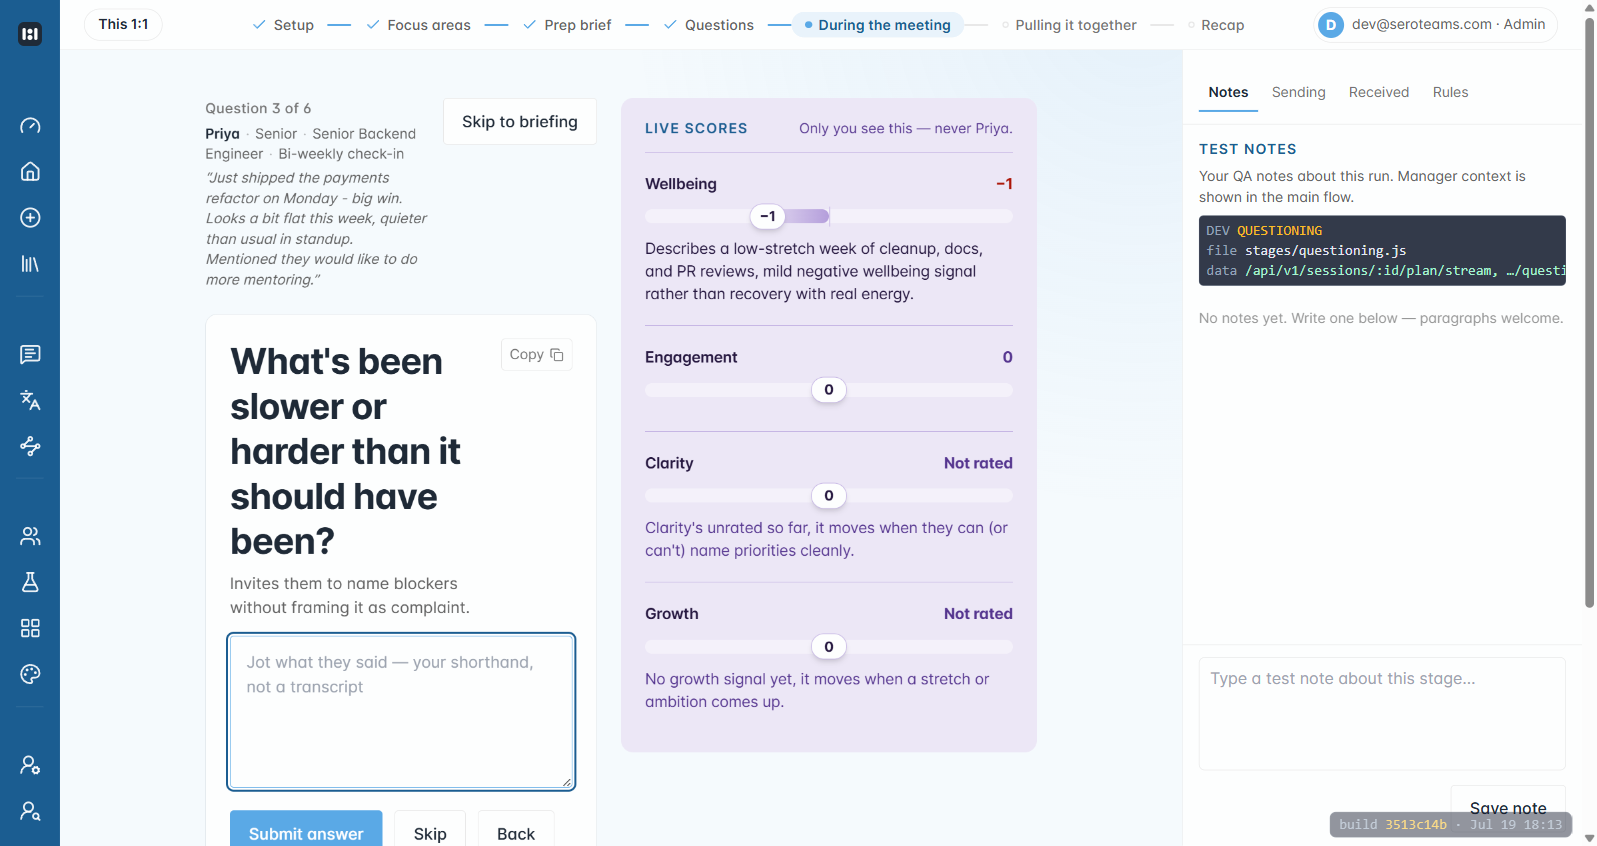
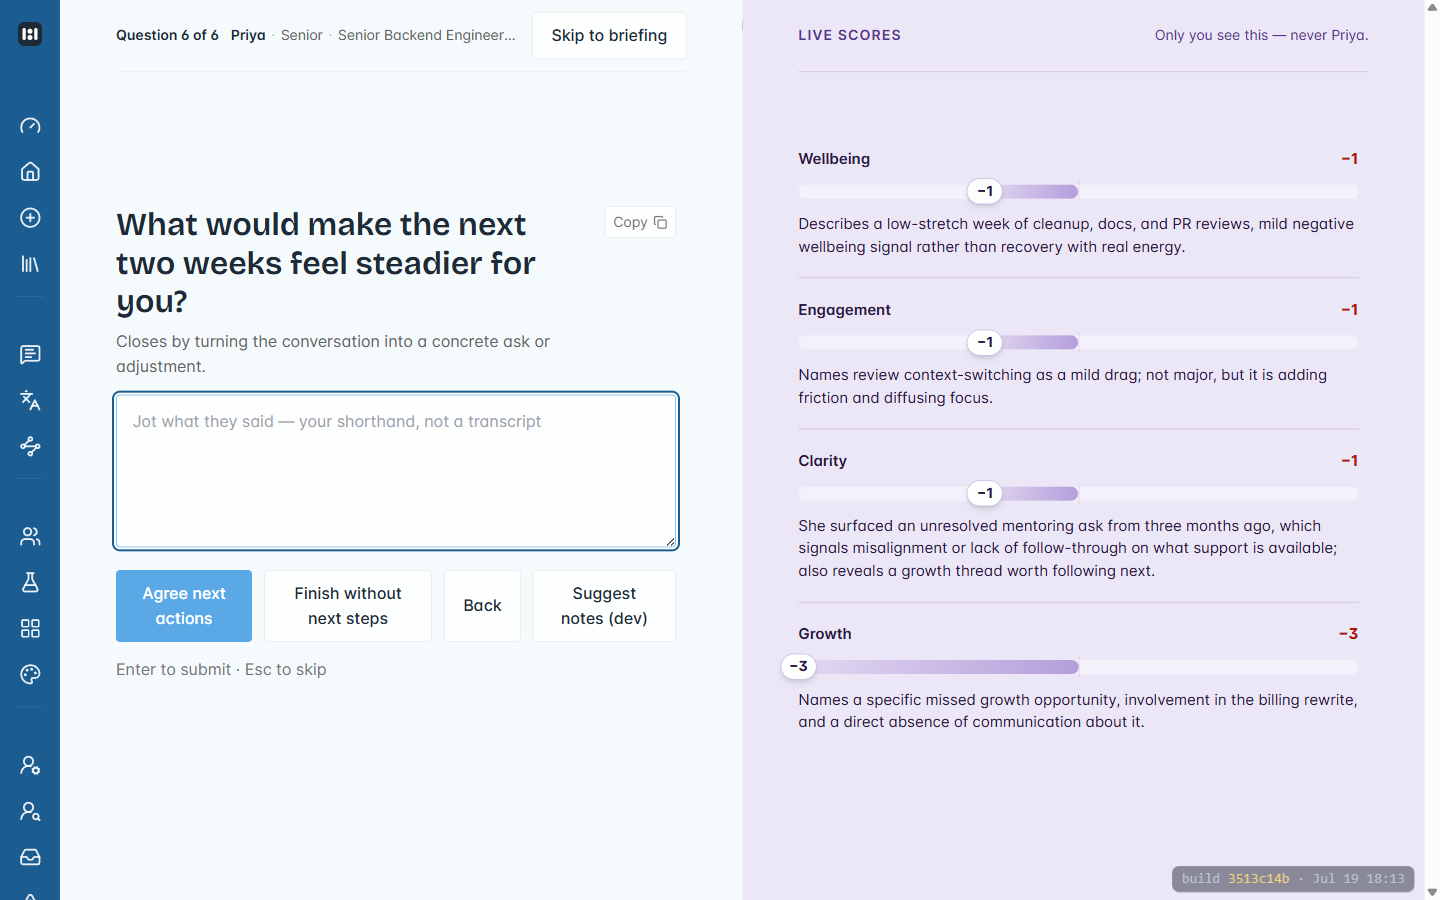
fix(coach-panel): the TRUE full-screen 50/50 from the POC — Carl's 'not the design' catch
Overlay portals to <body> (shell ancestors trap position:fixed), drops the old
stage class that clamped its width, bare Typeform question column, POC datum
lines + type scale; header facts ellipsize instead of clipping the skip button.
158/158 tests, typecheck clean; re-walked on the cassette + new screenshot.

diff --git a/admin/src/stages/questioning.js b/admin/src/stages/questioning.js
@@ -21,7 +21,48 @@ let unmountFn = null;
 const IS_ADMIN_APP = import.meta.env.BASE_URL === "/admin/";
 
 export async function mount(root, { store, setState }) {
-  const leftInner = `
+  // Admin: the POC's TRUE full-screen 50/50 (runner-v2, Carl-approved) — fixed overlay,
+  // three datum lines (72px header row + hairline, shared content line, footer line),
+  // 560px columns, paper left / lavender right. Customer app: today's single column.
+  // The overlay is appended to <body>: the stage host lives inside animated/contained
+  // shell ancestors, which trap position:fixed and shrink the split (Carl's 2026-07-19
+  // "this is not the design" catch). The nav rail stays; topbar + dev rail sit under it.
+  const adminScreenHtml = `<div class="cp-screen">
+        <div class="cp-half cp-half--q">
+          <header class="cp-head">
+            <div class="cp-head__facts">
+              <span class="turn-label cp-head__turn"></span>
+              <span class="question-session-ctx ctx-segments" aria-label="Session context"></span>
+            </div>
+            <div class="cp-head__actions">
+              <button class="btn btn--ghost js-save-exit" type="button">Skip to briefing</button>
+            </div>
+          </header>
+          <div class="cp-col">
+            <div class="question-host"></div>
+            <div class="thinking-host"></div>
+            <div class="footer-host text-sm text-ink-mute"></div>
+          </div>
+          <div class="cp-foot"></div>
+        </div>
+        <aside class="cp-half cp-half--coach" aria-label="Live scores — only you see this">
+          <header class="cp-head">
+            <span class="cp-eyebrow">Live scores</span>
+            <span class="cp-privacy">Only you see this — never ${escape(store.ctx?.name || "them")}.</span>
+          </header>
+          <div class="cp-col"><div class="coach-host"></div></div>
+          <div class="cp-foot"></div>
+        </aside>
+      </div>`;
+  let screenEl = null;
+  if (IS_ADMIN_APP) {
+    root.innerHTML = "";
+    screenEl = document.createElement("div");
+    screenEl.innerHTML = adminScreenHtml;
+    screenEl = screenEl.firstElementChild;
+    document.body.appendChild(screenEl);
+  } else {
+    root.innerHTML = `<div class="stage-questioning l-stack l-stack--6">
       <header class="page-header">
         <div class="page-header__row">
           <div class="questioning-head min-w-0 space-y-1">
@@ -34,35 +75,31 @@ export async function mount(root, { store, setState }) {
       </header>
       <div class="question-host"></div>
       <div class="thinking-host min-h-[72px]"></div>
-      ${IS_ADMIN_APP ? "" : `
       <div class="axes-wrap space-y-2" aria-label="Live scores — updated each answer, not the final briefing">
         <div class="eyebrow" title="Live scores — updated each answer, not the final briefing">Live scores</div>
         <div class="card axes-host"></div>
-      </div>`}
+      </div>
       <div class="footer-host text-sm text-ink-mute"></div>
-  `;
-  root.innerHTML = IS_ADMIN_APP
-    ? `<div class="stage-questioning coach-split">
-        <div class="coach-split__left l-stack l-stack--6">${leftInner}</div>
-        <aside class="coach-split__right"><div class="coach-host"></div></aside>
-      </div>`
-    : `<div class="stage-questioning l-stack l-stack--6">${leftInner}</div>`;
-  const turnLabel = root.querySelector(".turn-label");
-  const sessionCtxEl = root.querySelector(".question-session-ctx");
-  const qHost = root.querySelector(".question-host");
+    </div>`;
+  }
+  const ui = screenEl || root;
+  const turnLabel = ui.querySelector(".turn-label");
+  const sessionCtxEl = ui.querySelector(".question-session-ctx");
+  const qHost = ui.querySelector(".question-host");
 
   renderCtxSegments(sessionCtxEl, store.ctx || {}, { compact: true });
   // Echo what the manager told Sero at setup (chips summary + their own words) so
-  // the full context stays visible the whole way through the interview.
-  const sessionNotesEl = root.querySelector(".question-session-notes");
+  // the full context stays visible the whole way through the interview. The POC split
+  // (admin) has no notes echo — its header keeps the single 72px facts row.
+  const sessionNotesEl = ui.querySelector(".question-session-notes");
   const ctxNotes = String(store.ctx?.notes || "").replace(/\s*\n+\s*/g, " ").trim();
-  if (ctxNotes) {
+  if (ctxNotes && sessionNotesEl) {
     sessionNotesEl.textContent = `“${ctxNotes}”`;
     sessionNotesEl.hidden = false;
   }
-  const thinkingHost = root.querySelector(".thinking-host");
-  const axesHost = root.querySelector(IS_ADMIN_APP ? ".coach-host" : ".axes-host");
-  const footerHost = root.querySelector(".footer-host");
+  const thinkingHost = ui.querySelector(".thinking-host");
+  const axesHost = ui.querySelector(IS_ADMIN_APP ? ".coach-host" : ".axes-host");
+  const footerHost = ui.querySelector(".footer-host");
 
   // Same duck-type surface either way: renderInitial / update (+ setNote on the coach panel).
   const axes = IS_ADMIN_APP
@@ -94,7 +131,7 @@ export async function mount(root, { store, setState }) {
   // Wrap-up exit (wrap-up-exit Phase 1): from Q4 the escape becomes a warm door —
   // one closing question, then the briefing — instead of the straight-to-briefing
   // trapdoor. showNextQuestion() sets wrapMode + relabels per question.
-  const saveExitBtn = root.querySelector(".js-save-exit");
+  const saveExitBtn = ui.querySelector(".js-save-exit");
   let wrapMode = false;
   saveExitBtn.addEventListener("click", async () => {
     if (wrapMode) {
@@ -176,7 +213,7 @@ export async function mount(root, { store, setState }) {
     saveExitBtn.textContent = wrapMode ? "Wrap up — get my briefing" : "Skip to briefing";
 
     const card = document.createElement("div");
-    card.className = "card questioning-card space-y-4 reveal";
+    card.className = IS_ADMIN_APP ? "cp-q space-y-4 reveal" : "card questioning-card space-y-4 reveal";
     card.innerHTML = `
       ${isFollowUp
         ? `<div class="question-drill-hint text-ink-dim">↳ Following up on what you just said.</div>`
@@ -394,7 +431,7 @@ export async function mount(root, { store, setState }) {
     turnLabel.textContent = "Before we wrap";
 
     const card = document.createElement("div");
-    card.className = "card questioning-card space-y-4 reveal";
+    card.className = IS_ADMIN_APP ? "cp-q space-y-4 reveal" : "card questioning-card space-y-4 reveal";
     card.innerHTML = `
       <div class="question-card-head__text space-y-2">
         <h1 class="question-stem leading-snug">Earlier they wanted to cover ${escape(agenda.summary)}. Did you get to it?</h1>
@@ -537,7 +574,7 @@ export async function mount(root, { store, setState }) {
     turnLabel.textContent = "Before question 1";
 
     const card = document.createElement("div");
-    card.className = "card questioning-card space-y-4 reveal";
+    card.className = IS_ADMIN_APP ? "cp-q space-y-4 reveal" : "card questioning-card space-y-4 reveal";
     const head = document.createElement("h1");
     head.className = "question-stem leading-snug";
     head.textContent = "How did last time's agreements go?";
@@ -572,7 +609,11 @@ export async function mount(root, { store, setState }) {
 
   bootQuestioning();
 
-  unmountFn = teardown;
+  unmountFn = () => {
+    teardown();
+    // The admin split lives on <body> (portal) — remove it with the stage.
+    if (screenEl) { screenEl.remove(); screenEl = null; }
+  };
 }
 
 export function unmount() {

diff --git a/admin/src/styles/coach-panel.css b/admin/src/styles/coach-panel.css
@@ -1,35 +1,68 @@
-/* Coach panel (coach-panel Phase 1) — the lavender right half of the questioning
-   split, plus the split layout itself. Meters are the runner-v2 POC's design 5
-   ("Gradient meter", Carl's pick 2026-07-19). Tokens only; 14px floor. */
+/* Coach panel (coach-panel Phase 1) — the POC's TRUE full-screen 50/50 (runner-v2,
+   Carl's approved mock) carried onto the real questioning screen, admin app only.
+   Three datum lines: a 72px header row closed by a hairline, a shared content line,
+   a footer line. Paper left, lavender right, 560px columns, gradient meters
+   (POC design 5). Tokens only; 14px floor. */
 
-/* The 50/50 split (admin app only — the customer app keeps the single column). */
-.coach-split { display: grid; grid-template-columns: 1fr 1fr; gap: 0; align-items: stretch; }
-.coach-split__left { min-width: 0; padding-right: var(--sero-space-6); }
-.coach-split__right { min-width: 0; }
-@media (max-width: 1100px) {
-  .coach-split { grid-template-columns: 1fr; }
-  .coach-split__left { padding-right: 0; }
+/* Appended to <body> (portal): the app shell's animated ancestors would trap
+   position:fixed. Leaves the nav rail visible (POC look); covers the session
+   topbar + dev rail; stays under modals (--sero-z-modal-backdrop is 40). */
+.cp-screen { position: fixed; top: 0; right: 0; bottom: 0;
+  left: var(--app-nav-w, 60px); z-index: 35; display: grid;
+  grid-template-columns: 1fr 1fr; }
+/* Balanced rows: header and footer take equal 1fr shares so the content row sits
+   on the same centre line in both halves, whatever its height (POC datum 2). */
+.cp-half { display: grid; grid-template-rows: 1fr auto 1fr; min-height: 0;
+  padding: 0 56px; overflow-y: auto; overflow-x: hidden; }
+.cp-half--q { background: var(--color-page); }
+.cp-half--coach { background: var(--sero-lavender-300); color: var(--sero-lavender-900); }
+@media (max-width: 900px) {
+  .cp-screen { position: absolute; left: 0; grid-template-columns: 1fr; overflow-y: auto; }
+  .cp-half { overflow: visible; padding: 0 24px 24px; grid-template-rows: auto auto auto; }
 }
 
-.coach-panel {
-  background: var(--sero-lavender-300);
-  color: var(--sero-lavender-900);
-  border-radius: var(--sero-radius-lg, 12px);
-  padding: var(--sero-space-5) var(--sero-space-6);
-  height: 100%;
-  min-height: 320px;
-}
+/* Datum 1 — the 72px header row, closed by a hairline on both halves */
+.cp-head { display: flex; align-items: center; justify-content: space-between;
+  gap: var(--sero-space-4); border-bottom: 1px solid var(--color-border);
+  height: 72px; align-self: start; min-width: 0; }
+.cp-half--coach .cp-head { border-bottom-color: var(--sero-lavender-600); }
+.cp-head__facts { display: flex; align-items: baseline; gap: var(--sero-space-3);
+  min-width: 0; flex: 1; white-space: nowrap; }
+.cp-head__turn { font-size: 14px; font-weight: 600; color: var(--color-ink); flex: none; }
+/* display:block so the inline segment spans ellipsize as one line (the global
+   .ctx-segments can lay out as flex, which overflows instead of shrinking) */
+.cp-head .ctx-segments { display: block; flex: 1; min-width: 0; overflow: hidden;
+  text-overflow: ellipsis; white-space: nowrap; }
+.cp-head__actions { display: flex; gap: var(--sero-space-2); flex: none; }
+.cp-head__actions .btn { white-space: nowrap; }
+.cp-eyebrow { font-size: 14px; font-weight: 600; color: var(--sero-lavender-800);
+  letter-spacing: .08em; text-transform: uppercase; }
+.cp-privacy { font-size: 14px; color: var(--sero-lavender-800); }
 
-.coach-panel__head {
-  display: flex; align-items: baseline; justify-content: space-between;
-  gap: var(--sero-space-3); flex-wrap: wrap;
-  padding-bottom: var(--sero-space-3);
-  border-bottom: 1px solid var(--sero-lavender-600);
-}
-.coach-panel__privacy { font-size: 14px; color: var(--sero-lavender-800); }
+/* Datum 2 — both columns start on the half's centre line */
+.cp-col { padding: 40px 0; width: 100%; max-width: 560px; min-width: 0;
+  display: flex; flex-direction: column; align-items: flex-start; }
+@media (max-width: 900px) { .cp-col { padding: 24px 0; } }
 
-.coach-row { padding: var(--sero-space-5) 0; border-top: 1px solid var(--sero-lavender-600); }
-.coach-row:first-child { border-top: 0; }
+/* Datum 3 — the footer line */
+.cp-foot { align-self: end; width: 100%; max-width: 560px;
+  padding: var(--sero-space-5) 0 var(--sero-space-6); }
+
+/* Left column — the POC's bare Typeform look (no card chrome) */
+.cp-q { width: 100%; }
+.cp-screen .question-host, .cp-screen .thinking-host, .cp-screen .footer-host { width: 100%; }
+.cp-screen .question-stem { font-family: var(--type-family-display); font-weight: 600;
+  color: var(--color-ink); font-size: 32px; line-height: 1.2; margin: 0; }
+.cp-screen .question-desc { font-size: 16px; color: var(--color-ink-dim);
+  margin: var(--sero-space-2) 0 0; }
+.cp-screen .question-drill-hint { font-size: 14px; color: var(--color-ink-dim);
+  margin: 0 0 var(--sero-space-3); }
+
+/* Coach half — bare rows on the lavender, one left edge */
+.coach-panel { width: 100%; }
+.coach-row { width: 100%; padding: var(--sero-space-5) 0;
+  border-top: 1px solid var(--sero-lavender-600); }
+.coach-row:first-child { border-top: 0; padding-top: 0; }
 
 .coach-row__head { display: flex; align-items: center; justify-content: space-between; gap: 8px; }
 .coach-row__label { font-size: 15px; font-weight: 600; color: var(--sero-lavender-900); }

diff --git a/admin/src/ui/coach-panel.ts b/admin/src/ui/coach-panel.ts
@@ -41,17 +41,12 @@ function storageKey(sessionId: string): string {
   return `sero.coach.whys.${sessionId}`;
 }
 
-export function createCoachPanel({ sessionId, personName }: { sessionId: string; personName?: string }) {
+export function createCoachPanel({ sessionId }: { sessionId: string; personName?: string }) {
+  // Rows only — the split screen (questioning.js) owns the header row, so the
+  // panel sits bare on the lavender half exactly like the POC.
   const el = document.createElement("div");
   el.className = "coach-panel";
-  el.setAttribute("aria-label", "Live scores — only you see this");
-  el.innerHTML = `
-    <div class="coach-panel__head">
-      <span class="eyebrow">Live scores</span>
-      <span class="coach-panel__privacy">Only you see this${personName ? ` — never ${escape(personName)}` : ""}.</span>
-    </div>
-    <div class="coach-panel__rows"></div>
-  `;
+  el.innerHTML = `<div class="coach-panel__rows"></div>`;
   const rowsHost = el.querySelector(".coach-panel__rows") as HTMLElement;
 
   const attacher = createNoteAttacher(readStored());

diff --git a/docs/plans/doing/coach-panel/phase-1.md b/docs/plans/doing/coach-panel/phase-1.md
@@ -2,7 +2,13 @@
 
 **Part of:** [plan.md](plan.md) · **Status:** 🔨 built, awaiting Carl's walk
 
-## Built (2026-07-19)
+## Built (2026-07-19) — layout rebuilt same day after Carl's catch
+Carl's first walk: "this is not the design" — v1 had put the panel inside the normal
+page layout. Rebuilt to the POC's TRUE full-screen 50/50 (fixed overlay on <body>,
+nav rail visible, three datum lines, 560px columns, bare Typeform question, 32px
+display stem). Re-verified end-to-end on the cassette walk; new screenshot below
+matches the approved mock.
+
 - New: `admin/src/ui/coach-panel.ts` (DOM) + `admin/src/ui/coach-panel-state.ts` (pure logic) + `coach-panel-state.test.ts` (7 tests) + `admin/src/styles/coach-panel.css`. Changed: `admin/src/stages/questioning.js` (split layout + panel wiring, gated by the app's build-time base URL — customer app keeps the single column).
 - **Scope deviation from the phase file:** the `backend/engine/axes.ts` note-in-history change was dropped — its call site (`session-streams.ts`) is another chat's live lane. Refresh-persistence is done client-side instead (sessionStorage per session). The note is already durable in run logs (transcript + turn.json). Revisit only if cross-device mid-run resume matters.
 - Offline proof: npm test 158/158, typecheck clean, `lint:tokens` clean for these files. Verified live on a $0 cassette replay of run `2026_Jul01_22-30-eb6e254d…` (server `sero-api-coach` on 3141 + web 3143, dev autologin): split renders, Wellbeing/Engagement moved with the planner's real note shown as the why, idle axes show labelled UI copy, refresh kept scores + whys, submit/skip/back unchanged. Screenshot: [shots/phase1-live-scores.png](shots/phase1-live-scores.png).